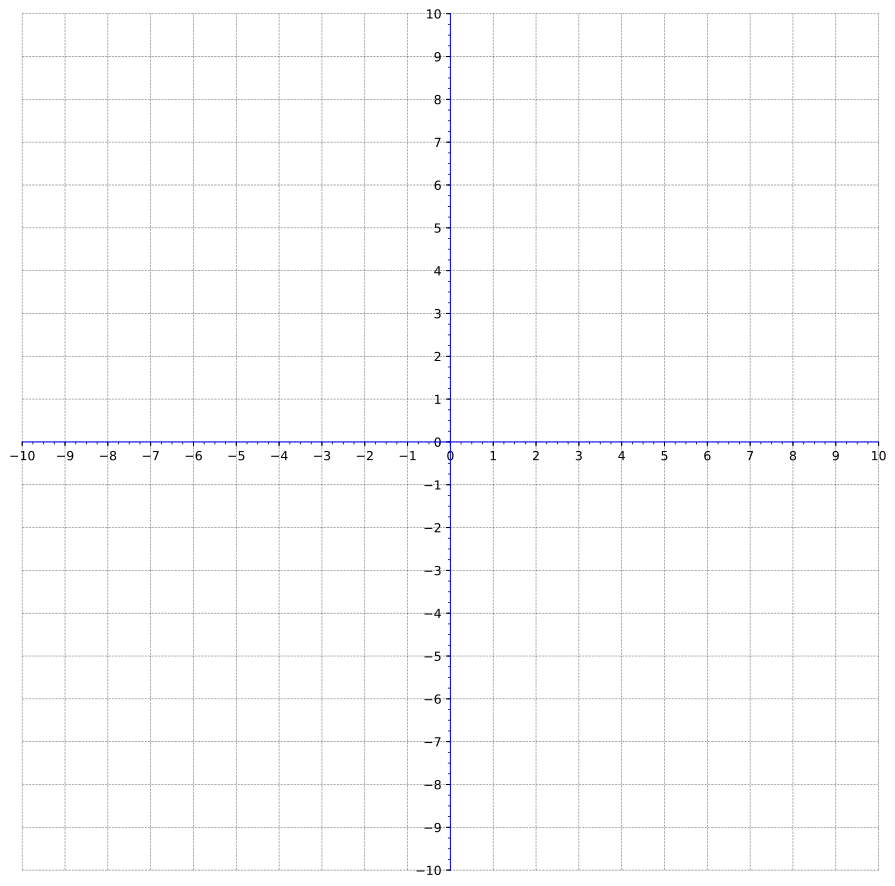
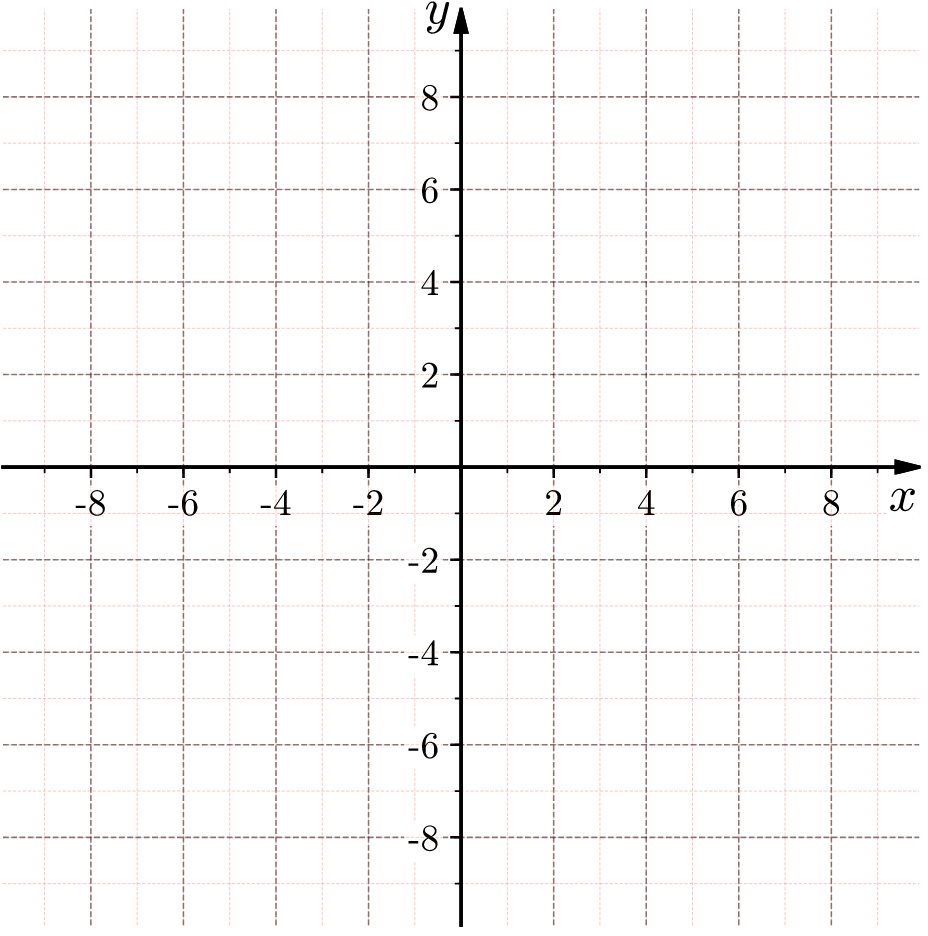
updating readme pt. 1

diff --git a/unit_test.py b/unit_test.py
@@ -20,7 +20,7 @@ def randint_except(a, b, c):
 def unit_test():
 	# TRIANGLE #
 	def triangle(f):
-		t = f.addTriangle(isSide=False, angle=np.pi/6, xy=[-3,6], rotation=0/np.pi, length=3)
+		t = f.addTriangle(isSide=False, angle=np.pi/6, xy=[-3,6], rotation=0/np.pi, length=4)
 		t.labelAngles([r'\alpha', r'\beta', r'\gamma'])
 		t.labelOppositeSides(['A', 'B', 'C'])
 		t.labelVertices(['a', 'b', 'c'])
@@ -28,30 +28,40 @@ def unit_test():
 	# FUNCTION #
 	def function(f):
 		func = lambda x: np.sin(x)
+		func2 = lambda x: x**2
+
 		f.addFunction(
 			func,
 			[[-3*np.pi,3*np.pi],[-3*np.pi,3*np.pi]],
-			color="blue",
-			lw=10
-			#mplprops={'lw':10}
+			color="green",
+			lw=2
 		)
+
+		f.addFunction(
+			func2,
+			[[-3*np.pi,3*np.pi],[-3*np.pi,3*np.pi]],
+			color="orange",
+			lw=2
+		)
+
 
 	# CIRCLE #
 	def circle(f):
-		circ = f.addCircle(xy=(7,10), label="r", radius=10, fc='grey', lw=5)
+		circ = f.addCircle(xy=(7,10), label="r", radius=10, fc='#f4ab7a', lw=5)
 		# OR #
 		#circ = f.addEllipse(xy=(7,10), label="r", r=10, fc='grey')
 
 	# ELLIPSE #
 	def ellipse(f):
-		ell = f.addEllipse(xy=[9,12], r=(9,12), angle=30.0, fc='red', ec='w', lw=10)
+		ell = f.addEllipse(xy=[7,10], r=(9,12), angle=20.0)
 		ell.ellipseLabels(xlabel='x', ylabel='y', isRadius=False)
-		ell2 = f.addEllipse(xy=[-12,8], r=(4,8), angle=190.0, fc='yellow')
-		ell3 = f.addEllipse(xy=[10,-8], r=(8,3), angle=45.0, lw=5.0, fc='pink')
-		ell4 = f.addEllipse(xy=[-13,-7], r=(5,6), angle=270.0, fc='green', lw=1)
+		#ell2 = f.addEllipse(xy=[-12,8], r=(4,8), angle=190.0, fc='yellow')
+		#ell3 = f.addEllipse(xy=[10,-8], r=(8,3), angle=45.0, lw=5.0, fc='pink')
+		#ell4 = f.addEllipse(xy=[-13,-7], r=(5,6), angle=270.0, fc='green', lw=1)
 
 	# POLYGON #
 	def polygon(f):
+		"""
 		poly = f.addPolygon(
 			[
 				[5.5, 4.5],
@@ -60,16 +70,26 @@ def unit_test():
 				[6.0, 6.3],
 				[6.4, 5.1]
 			],
-			lw=10
+			lw=3
+		)
+		"""
+		poly = f.addPolygon(
+			[
+				[8.5, 2.5],
+				[1.5, 6.1],
+				[7.2, 12.3],
+				[12.0, 12.3],
+				[15.4, 6.1]
+			],
+			lw=3
 		)
 		poly.labelVertices(['a', 'b', 'c', 'd', 'e'])
-		poly.labelOppositeSides(['A', 'B', 'C', 'D', 'E'])
 		poly.labelAngles([r'\alpha', r'\beta', r'\gamma', r'\delta', r'\epsilon'])
 
 
 	# AXIS #
 	def axis(f):
-		axis = f.addAxis(hideAxis=False, grid=True, arrows=True, color='black', lw=4, minorGrid='red')
+		axis = f.addAxis(hideAxis=False, grid=True, arrows=True, color='black', lw=1, minorGrid='red')
 		axis.Ticks(tickLabelInterval=2, tickInterval=1, fontsize=12, origin=False, top=True)
 
 	# POINT #
@@ -95,11 +115,9 @@ def unit_test():
 	def wedge(f):
 		#f.addWedge((0,0), r=5, theta1=60, theta2=90)
 
-		f.addWedge((0,0), r=5, theta1=60, theta2=90)
+		f.addWedge((0,0), r=5, theta1=60, theta2=90, mplprops={'color':'orange', 'ec':'k'})
 		f.addWedge((-2,0), r=3, theta1=120, theta2=190)
 		f.addWedge((-2,0), r=8, theta1=270, theta2=360)
-
-
 
 	# WRITE #
 	def write(f):
@@ -111,23 +129,23 @@ def unit_test():
 		f.close()
 
 	# INIT #
-	f = figures.Figures([[-10,10],[-10, 10]])
+	f = figures.Figures([[-7,7],[-12,12]], bgcolor='w')
 
-	#triangle(f)
-	#function(f)
-	#circle(f)
-	#ellipse(f)
-	#polygon(f)
+	triangle(f)
+	###function(f)
+	###circle(f)
+	###ellipse(f)
+	###polygon(f)
 	#point(f)
 	#text(f)
 	#arrow(f)
 	#wedge = f.addWedge(xy=(1,1), radius=5, theta1=0, theta2=300, mplprops={'width':None})
-	wedge(f)
+	#wedge(f)
 	#line = f.addLine([2,4], [6,8], lw=2, mplprops={'color':'r'})
 
 	#matplotlib.lines.Line2D([0,0], [5,5])
 
-	axis(f)
+	###axis(f)
 
 	write(f)
 

diff --git a/README.md b/README.md
@@ -13,15 +13,20 @@ The `Figures` lets you add shapes and modify the axes.
 ##### Regular Polygon
 
 
-    f = figures.Figures()
-    poly = f.addPolygon(np.matrix([
-	    [55, 45],
-	    [45, 51],
-	    [49, 63],
-	    [60, 63],
-	    [64, 51]
-    ]))
-    poly.labelVertices(['a','b','c','d','e'])
+    f = figures.Figures([[0,20],[-5, 15]], bgcolor='w')
+    poly = f.addPolygon(
+			[
+				[8.5, 2.5],
+				[1.5, 6.1],
+				[7.2, 12.3],
+				[12.0, 12.3],
+				[15.4, 6.1]
+			],
+			lw=3
+		)
+		poly.labelVertices(['a', 'b', 'c', 'd', 'e'])
+		poly.labelAngles([r'\alpha', r'\beta', r'\gamma', r'\delta', r'\epsilon'])
+
 	f.__writeFile__('/Users/<USER>/polygon.png')
 
 ![Regular Polygon](images/polygon.png "Regular Polygon")
@@ -29,49 +34,74 @@ The `Figures` lets you add shapes and modify the axes.
 ##### Circle
 
 
-    f = figures.Figures()
-    circ = f.addCircle(xy=(1, 2), label="r", radius=3)
-	f.__writeFile__('/Users/<USER>/circle-r.png')
+    f = figures.Figures([[-10,25],[-10,25]], bgcolor='w')
+		circ = f.addCircle(xy=(7,10), label="r", radius=10, fc='#f4ab7a', lw=5)
 
-![Circle (Radius)](images/circle-r.png "Circle (Radius)")
+	f.__writeFile__('/Users/<USER>/circle.png')
 
----
+![Circle (Radius)](images/circle.png "Circle")
 
-	f = figures.Figures()
-	circ = f.addCircle(xy=(1, 3), label="d", diameter=3)
-	f.__writeFile__('/Users/<USER>/polygon.png')
 
-![Circle (Diameter)](images/circle-d.png "Circle (Diameter)")
+#### Ellipse
+
+
+    f = figures.Figures([[-10,25],[-10,25]], bgcolor='w')
+    ell = f.addEllipse(xy=[7,10], r=(9,12), angle=20.0)
+  	ell.ellipseLabels(xlabel='x', ylabel='y', isRadius=False)
+
+  f.__writeFile__('/Users/<USER>/ellipse.png')
+
+![Regular Polygon](images/ellipse.png "Ellipse")
 
 ##### Axis
 
-	f = figures.Figures()
-	f.format_axis(xyrange=[[-10,10], [-10,10]], grid=True, tick_interval=.25, tick_label_interval=1, color='blue')
-	f.__writeFile__('/Users/<USER>/axis.png')
+
+    f = figures.Figures([[-10,10],[-5,5]], bgcolor='w')
+    f.format_axis(xyrange=[[-10,10], [-10,10]], grid=True, tick_interval=.25, tick_label_interval=1, color='blue')
+
+  f.__writeFile__('/Users/<USER>/axis.png')
 
 ![Axis](images/axis.png "Axis")
 
 ##### Functions
 
 
-	f = figures.Figures()
-	func = lambda x: x**2
-	f.add_function(func, [[-3*np.pi,3*np.pi],[-3*np.pi,3*np.pi]], colors="blue")
-	f.format_axis(xyrange=[[-3*np.pi,3*np.pi],[-3*np.pi,3*np.pi]])
-	f.__writeFile__('/Users/<USER>/axis-f.png')
+  	f = figures.Figures()
+
+      func = lambda x: np.sin(x)
+  		func2 = lambda x: x**2
+
+  		f.addFunction(
+  			func,
+  			[[-3*np.pi,3*np.pi],[-3*np.pi,3*np.pi]],
+  			color="green",
+  			lw=2
+  		)
+
+  		f.addFunction(
+  			func2,
+  			[[-3*np.pi,3*np.pi],[-3*np.pi,3*np.pi]],
+  			color="orange",
+  			lw=2
+  		)
+
+  	f.__writeFile__('/Users/<USER>/func.png')
 
 ![Function](images/func.png "Function")
 
+##### Triangle
 
----
-	f = figures.Figures()
-	func1 = lambda x: x**2
-	func2 = lambda x: x**3
-	f.add_function([func1, func2], [[[-3*np.pi,3*np.pi],[-3*np.pi,3*np.pi]],[[-3*np.pi,3*np.pi],[-3*np.pi,3*np.pi]]], colors=["blue", "green"])
-	f.format_axis(xyrange=[[-3*np.pi,3*np.pi],[-3*np.pi,3*np.pi]])
-	f.__writeFile__('/Users/<USER>/func-multi.png')
 
-![Function (Multiple)](images/func-multi.png "Function (Multiple)")
+    f = figures.Figures([[-7,7],[-12,12]], bgcolor='w')
+
+    t = f.addTriangle(isSide=False, angle=np.pi/6, xy=[-3,6], rotation=0/np.pi, length=4)
+    t.labelAngles([r'\alpha', r'\beta', r'\gamma'])
+    t.labelOppositeSides(['A', 'B', 'C'])
+    t.labelVertices(['a', 'b', 'c'])
+
+    f.__writeFile__('/Users/<USER>/triangle.png')
+
+![Triangle](images/triangle.png "Triangle")
 
 
 
